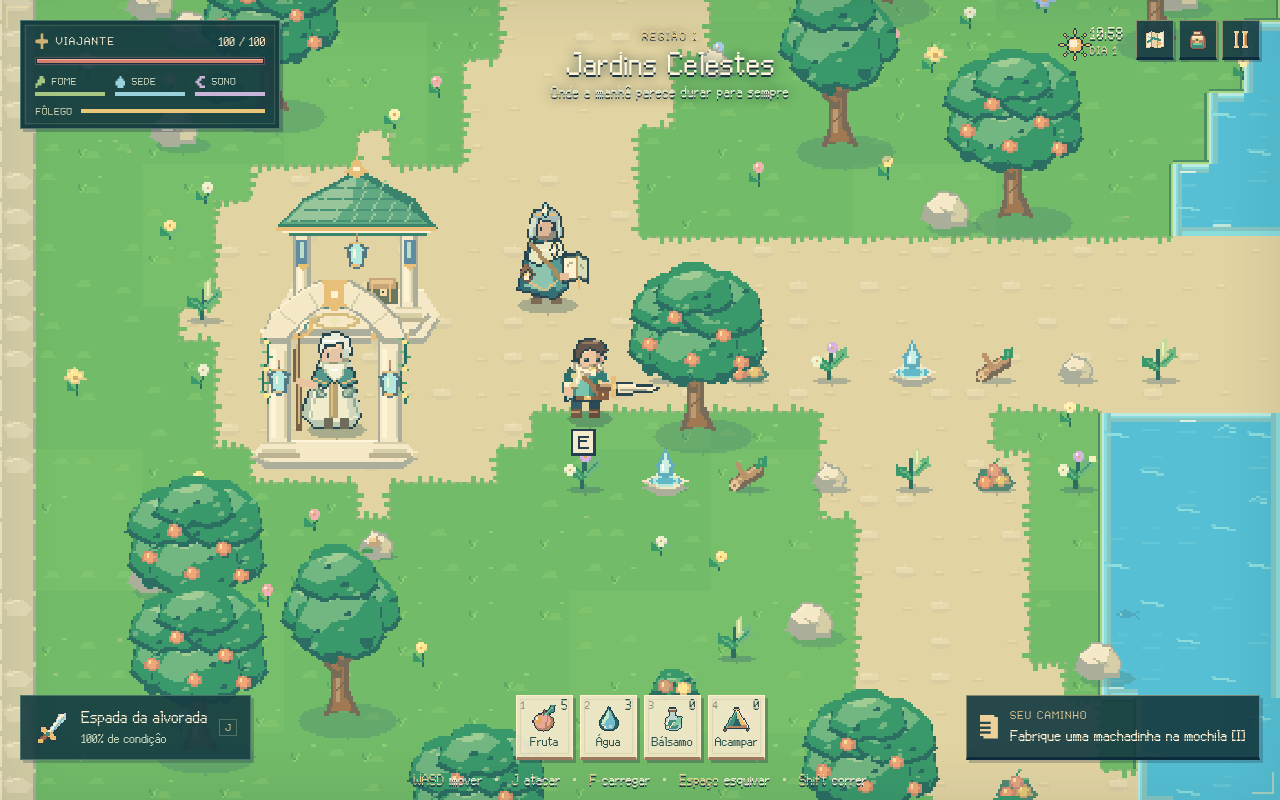
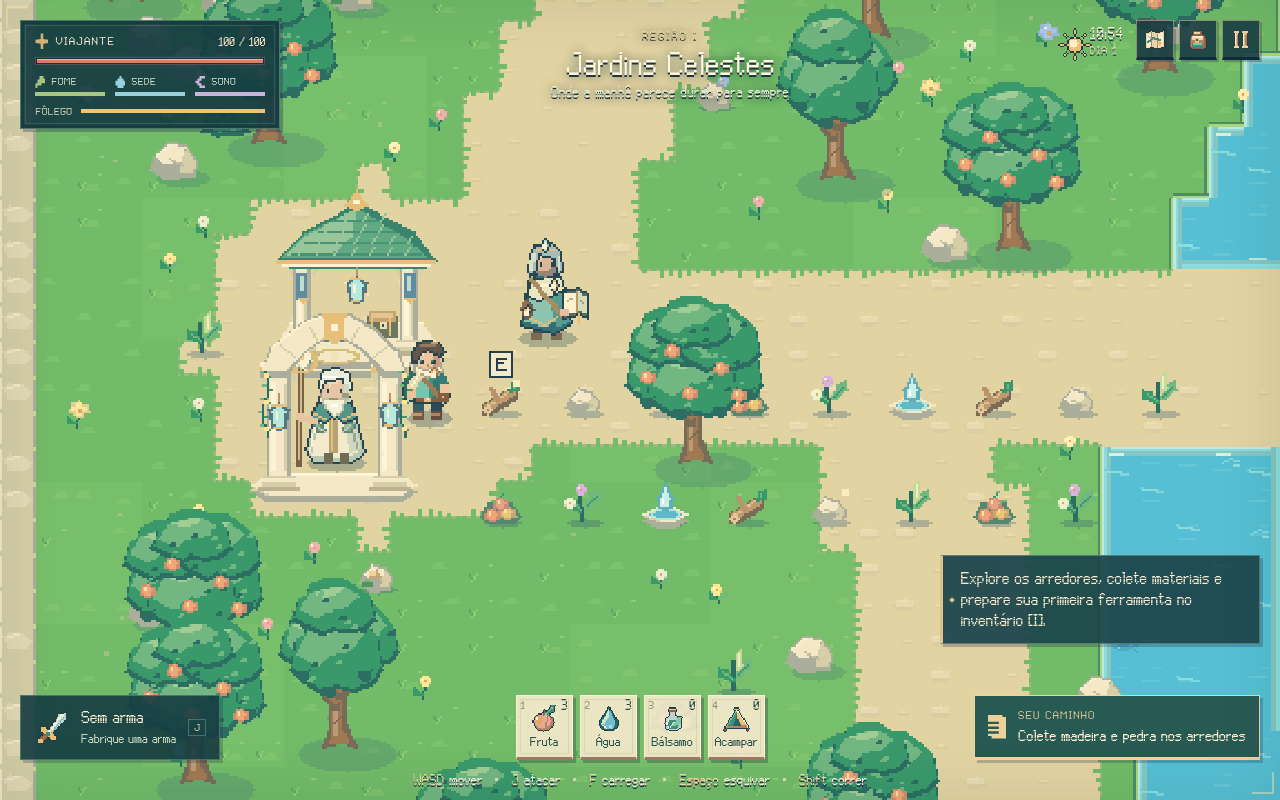
Registra a validação visual e os testes dos aplicativos 1.1.0

diff --git a/docs/validacao.md b/docs/validacao.md
@@ -1,40 +1,39 @@
-# Validação da versão integrada
+# Validação da atualização visual 1.1.0
 
-O Documento Mestre foi lido integralmente na raiz antes da arquitetura. A revisão preservou biomas, personagens, 20 chefes/vítimas, nove ingredientes, survival e sequência final.
+O Documento Mestre foi lido diretamente da raiz. A revisão preserva os dez biomas, os vinte chefes, os nove ingredientes, os sistemas de sobrevivência e a ordem da sequência final.
 
 ## Sistemas e campanha
 
-`npm test` verifica os sistemas e as campanhas normal e tranquila. Os testes de campanha coletam recursos por interação, fabricam e melhoram equipamentos, administram provisões, enfrentam invasores comuns e vencem os vinte chefes com ataques, movimento e esquivas da simulação. Os testes não alteram vida, dano, fôlego ou inventário para forçar vitórias; apenas aceleram o deslocamento entre pontos de interesse.
+`npm test` verifica sobrevivência, crafting transacional, armas, desgaste e reparos, armazenamento regional, acampamentos, salvamento e campanhas normal e tranquila. Os percursos usam interações, ataques, movimento e esquivas da simulação; deslocamentos entre pontos de interesse são assistidos. Vida, dano, fôlego e inventário não são alterados para forçar vitórias.
 
-Foram verificados:
+Os testes verificam conectividade dos mapas, retorno a chefes e ingredientes pendentes, acampamento sem checkpoint, ciclo de 780 segundos, sono crítico, poção obrigatória, retomada do ácido após save/fuga/morte, três nós da fenda, sequência final e preservação dos registros de replay.
 
-- Conectividade dos dez mapas, incluindo recursos, caminhos opcionais, cavernas, arenas, ingredientes e nós da fenda.
-- Possibilidade de deixar chefe e ingrediente pendentes e voltar por viagem rápida antes do décimo bioma.
-- Separação dos baús, desgaste até quebra, reparos e preservação do equipamento no save.
-- Pausa, ciclo de 780 segundos e sono crítico após cerca de 3,5 ciclos.
-- Acampamento sem checkpoint ou salvamento manual.
-- Poção obrigatória e retomada do derretimento após save, fuga ou morte.
-- Três nós elétricos, fechamento da fenda e sequência final correta.
-- Compactação dos registros de replay e preservação das ações essenciais mesmo depois de muitas fabricações.
+## Interface e controles
 
-## Navegador
+`tests/browser.mjs` passou com 19 falas iniciais, movimento por teclado, coleta, fabricação pela interface, pausa, mapa, configurações, reload/save, gamepad pela API simulada do navegador e 25 entradas finais. O save final foi produzido pela campanha automatizada. O jogo encerrou na fala exata do Porteiro, sem botão ou notificação restante e sem erros JavaScript.
 
-`tests/browser.mjs` usa Chromium e Playwright. Verifica menu, 19 falas iniciais, movimento real pelo teclado, coleta, fabricação pela interface, pausa do tempo no inventário, mapa, configurações, reload/save, gamepad pela API padrão do navegador e as 25 entradas finais. A importação final usa um save produzido pelos combates reais da campanha automatizada. O teste exige ausência de erros JavaScript e termina sem botão ou notificação, na fala exata do Porteiro.
+`tests/mobile.mjs` passou com menu nativo simulado, movimento e ataque multitoque, interrupção ao soltar, carga e liberação do golpe, pausa/salvamento em segundo plano, rotação com retrato jogável e 24 avanços de botão até o encerramento. Teclado, mouse, gamepad e toque continuam alimentando a mesma simulação.
 
-A revisão visual verificou menu, gameplay, crafting, mapa, chefes e encerramento. As imagens ficam em `tests/artifacts/` e não entram no Git. `EXPORT_CAMPAIGN=1 npm test` recria o fixture usado no teste do navegador.
+## Artes e telas
 
-Esta validação automatizada cobre integração e conclusão; não substitui uma rodada extensa de playtest humano para ajuste fino de dificuldade e ritmo. Não foi usado um controle físico nesta sessão: o teste de gamepad simula a API do navegador.
+A arte foi redesenhada em módulos próprios: personagens, vinte chefes, sete armas, terrenos, árvores, estruturas, dez marcos, recursos, ingredientes, retratos, efeitos, fonte, marca e ícones. Dezesseis folhas PNG foram exportadas das mesmas rotinas usadas no jogo.
 
-## Correções encontradas durante a integração
+A matriz `tests/layout.mjs` cobre 12 formatos, de 320×568 a 2560×1080, com retrato, paisagem, quadrados, tablet e ultrawide. Verifica proporção/preenchimento do canvas, limites de painéis, rolagem interna, botões encobertos, interseções do HUD, controles, habilidades e notificações. Menus pausam a simulação. Abertura, mochila, fabricação, mapa, diário, pausa, configurações, controles, ponto de apoio, baú, viagem e habilidades são exercitados.
 
-O estado do ácido passou a persistir para evitar bloqueio irreversível no chefe final. Replays foram compactados para caber no armazenamento local e agora preservam os estados históricos da fenda, do poder e da dissolução. Recursos isolados foram convertidos em decoração. Telégrafos foram alinhados ao alcance real do dano; porcentagens de durabilidade, eventos de áudio, navegação de teclado e notificações finais foram corrigidos.
+`tests/render.mjs` passou em 288 verificações, com 92 imagens e 16 folhas PNG: dez biomas de dia/noite, marcos, vinte chefes, poses, quadros de movimento, NPCs, retratos, fenda sem corte, transparência dos atlas, cenas opacas, resize e mira. As imagens também foram inspecionadas; os fixtures visuais não representam vitórias de campanha.
 
-## Aplicativos offline e celular
+Nas batalhas em paisagem baixa, a câmera usa eixo lógico de 480 pixels, considera o espaço livre do HUD e enquadra os atores nas arenas próximas às bordas. O botão da poção permanece à direita, liberando o centro.
 
-Foram gerados um executável portátil Windows x64 e um APK Android universal. O aplicativo Electron abriu diretamente em `paradise://game/index.html`, com Canvas e interface carregados, sem servidor e sem exposição de Node.js à janela. O APK passou na verificação de assinatura v2/v3. Os arquivos de conteúdo incorporados foram comparados com a versão atual; Documento Mestre, saves e chaves não são distribuídos.
+## Aplicativos offline
 
-O teste `tests/mobile.mjs` simula um celular de 844 × 390 com toque e ponte nativa. Verifica que todos os botões iniciais cabem na tela, as 19 falas iniciais, movimento e ataque simultâneos com dois pontos de toque, interrupção do movimento ao soltar, carregamento e liberação do golpe, pausa e salvamento ao ir para segundo plano, rotação para retrato e avanço das cenas finais por toque. Não ocorreram erros JavaScript. A interface de PC foi testada novamente após as adaptações.
+O APK 1.1.0/code2 foi compilado com a mesma chave local da versão anterior e passou na verificação v2/v3. O conteúdo incorporado inclui os módulos e recursos finais; documentos, saves pessoais, ferramentas e chaves privadas são excluídos. O APK instala diretamente e não solicita permissão de internet.
 
-Os testes de interface móveis usam Chromium, não um celular físico. O executável Windows foi produzido em Linux e ainda precisa de teste de execução em Windows. Instalação, avisos de assinatura e comandos de geração estão em `docs/distribuicao.md`.
+O aplicativo Electron abriu em Linux por `paradise://game/index.html`, sem servidor, com marca, fonte, 19 falas, movimento e pausa. O modo Linux sem monitor não permite atestar fullscreen nativo.
 
-A tentativa adicional de instalar o APK em emulador Android 15 não concluiu: sem `/dev/kvm`, o sistema permaneceu na compilação inicial de componentes Google com `dex2oat` por vários minutos, bloqueando a instalação. O emulador foi encerrado. Não foi obtida confirmação de abertura do APK em Android nativo nesta sessão; a assinatura, estrutura, conteúdo e controles em navegador móvel foram verificados separadamente.
+O executável portátil foi compilado e **executado no runner Windows do GitHub Actions**. O teste abriu o aplicativo empacotado, carregou marca/fonte, percorreu 19 falas, moveu o jogador, pausou o tempo e alternou tela cheia. Node.js não ficou exposto ao conteúdo. Pipeline aprovado: [execução 36811488393](https://github.com/Girao-Henrique/Teste-1/actions/runs/36811488393).
+
+O APK instalou no Android virtual, mas o fluxo nativo não foi aprovado. O WebView falhou ao verificar seu snapshot interno do V8 antes de executar os módulos do jogo; dois controles sem conteúdo do jogo também não abriram. A execução em aparelho Android permanece pendente. O diagnóstico completo fica em [android-native-qa.md](android-native-qa.md). Instalação e comandos de geração estão em [distribuicao.md](distribuicao.md).
+
+## Limites práticos
+
+As verificações automatizadas cobrem integração e conclusão, mas não substituem playtest humano para dificuldade, ritmo e desempenho. Nenhum aparelho físico ou controle físico foi usado nesta sessão. A emulação Android por software não fornece uma medição confiável de fluidez ou bateria; testes em aparelhos reais continuam necessários para compatibilidade de fabricantes.

diff --git a/docs/android-native-qa.md b/docs/android-native-qa.md
@@ -2,14 +2,17 @@
 
 O teste usa o APK assinado incorporando `www/` e o WebView real do Android. Não usa o servidor de desenvolvimento nem injeta estado na campanha. Os registros, XMLs de acessibilidade e capturas ficam em `tests/artifacts/android-native/`, fora do conteúdo distribuído e do Git.
 
-## Ambiente reproduzível
+## Ambientes usados
 
 - Android 15, API 35, imagem Google APIs x86_64.
-- AVD `ParadiseTest`, emulação por software sem KVM, SwiftShader, 2 núcleos e 1,5 GB de memória atribuída ao dispositivo.
+- AVD `ParadiseTest`, emulação por software sem KVM, SwiftShader, 2 núcleos e 2,5 GB de memória atribuída ao dispositivo. O emulador elevou a solicitação de 1536 MB para seu mínimo de 2560 MB.
 - Resolução 720 × 1560, densidade 320, equivalente a 360 × 780 pixels CSS em retrato e 780 × 360 em paisagem.
 - SDK, AVD, diretórios temporários e preferências dentro de `.cache/` do projeto.
-- Google Play Services desativado somente no AVD de teste; o jogo não depende desse serviço.
+- WebView 124.0.6367.219 no AVD Google APIs.
+- Google Play Services desativado somente no AVD de teste durante o diagnóstico; o jogo não depende desse serviço.
 - `watchdog_timeout_millis=600000` somente no AVD. A lentidão da emulação por software excedia o limite padrão de 60 segundos e reiniciava `system_server` durante o boot. O ajuste permitiu concluir a inicialização.
+
+Uma segunda tentativa usou o AVD `ParadiseATD`, com a imagem oficial AOSP ATD API 35/x86_64. Ele usa a mesma resolução, densidade e memória, e a porta ADB `emulator-5556`. O boot também concluiu (`sys.boot_completed=1`, Android 15), em aproximadamente 6 minutos. O AVD Google foi encerrado para liberar recursos.
 
 O parâmetro do watchdog corresponde a `Settings.Global.WATCHDOG_TIMEOUT_MILLIS` em [Watchdog.java do Android 15](https://android.googlesource.com/platform/frameworks/base/+/refs/heads/android15-release/services/core/java/com/android/server/Watchdog.java). Ele não altera o APK nem as configurações de quem instala o jogo.
 
@@ -23,9 +26,11 @@ node tests/android-native.mjs install
 node tests/android-native.mjs flow
 ```
 
+Para o AVD ATD, acrescente `PARADISE_ANDROID_SERIAL=emulator-5556` antes de cada comando.
+
 O comando `install` aceita um caminho de APK como terceiro argumento. A instalação usa `--no-incremental -r`. O fluxo desativa Wi-Fi e dados móveis no AVD antes de abrir o jogo, confirmando o carregamento dos recursos incorporados.
 
-O comando `flow` percorre a abertura por toque, aciona o direcional e o ataque, abre a pausa pelo botão Voltar, gira a tela, testa a pausa em retrato e verifica a retomada após ir para segundo plano. Os limites e interseções dos botões são checados usando a árvore de acessibilidade nativa.
+O fluxo previsto pelo comando `flow` percorre a abertura por toque, aciona o direcional e o ataque, abre o inventário e o mapa, abre a pausa pelo botão Voltar, gira a tela, testa o inventário e a pausa em retrato e verifica a retomada após ir para segundo plano. Os limites e interseções dos botões são checados usando a árvore de acessibilidade nativa. A sintaxe do script foi verificada; isso não equivale a aprovação de todo o fluxo.
 
 As capturas precisam ser inspecionadas junto com os resultados automatizados para confirmar a renderização de fontes, sprites, HUD e controles. O relatório de execução é `tests/artifacts/android-native/report.json`.
 
@@ -33,4 +38,34 @@ As capturas precisam ser inspecionadas junto com os resultados automatizados par
 
 Este procedimento valida um dispositivo virtual Android e não representa teste em aparelho físico. A emulação sem KVM não fornece uma medição confiável de fluidez ou consumo de bateria. A matriz mais ampla de tamanhos, proporções e telas do jogo continua nos testes de interface no navegador.
 
-A execução do APK da revisão visual será registrada aqui após a integração das artes finais.
+## Resultado da revisão visual 1.1.0
+
+O APK final foi instalado com `--no-incremental -r` no Android virtual e o instalador retornou `Performing Streamed Install / Success`.
+
+SHA-256 do pacote instalado:
+
+```text
[1 lines of base64/hex data omitted]
+```
+
+No AVD Google APIs, a primeira abertura mostrou o splash do Android com o ícone personalizado do jogo. O dispositivo passou a exibir o diálogo `Pixel Launcher isn't responding`. A conexão do UiAutomation também falhou com `TimeoutException`, impedindo obter a árvore de acessibilidade e concluir o fluxo. Os erros encontrados pertencem à infraestrutura do dispositivo virtual; não fornecem aprovação nem diagnóstico completo da experiência do APK.
+
+A instalação está comprovada. O menu do jogo, o fluxo de abertura por toque, a rotação, o inventário, o mapa e a retomada não foram aprovados em Android nativo nesta etapa.
+
+No ATD, o APK final instalou novamente, mas a abertura também terminou sem mostrar o menu. O log completo permitiu identificar a primeira queda no processo isolado do WebView: `CrRendererMain`, PID 2364, recebeu `SIGTRAP` no endereço relativo `0x17971cc` de `libwebviewchromium.so`, versão 124.0.6367.219. A biblioteca tem BuildId `68dabd72c6088238cbfc9a5fbfe211f916771df5`.
+
+A sequência de instruções desse endereço corresponde ao `CHECK(VerifyChecksum(blob))` em `v8::internal::Snapshot::Initialize`. O verificador retornou falso e a biblioteca executou a instrução de interrupção fatal. A sequência foi comparada com [snapshot.cc do V8 12.4](https://chromium.googlesource.com/v8/v8/+/refs/branch-heads/12.4/src/snapshot/snapshot.cc), incluindo o verificador e o texto de medição do checksum. Essa inicialização pertence ao snapshot interno do V8 fornecido pelo WebView e ocorre antes da execução dos módulos do jogo.
+
+O snapshot de 64 bits extraído do APK do provider contém 74.109 bytes. Seu checksum Adler-32, com valor inicial 0 e cobrindo o conteúdo a partir do byte 12, confere no host: valor armazenado e valor calculado são `0x882b7eae`. O snapshot de 32 bits também confere (`0x51dbfb01`). Portanto, os arquivos extraídos do provider são internamente coerentes fora da execução emulada; o relatório não isola qual etapa da execução emulada causou a divergência.
+
+Após a queda do renderer, o aplicativo recebeu uma segunda interrupção fatal porque o WebView não teve `onRenderProcessGone` tratado. O `tombstone_00` corresponde a essa queda secundária do aplicativo, e não à primeira divergência do checksum.
+
+Um controle com o mesmo wrapper e apenas HTML estático também não exibiu a página. Esse controle não contém módulos, fonte, sprites, canvas nem áudio do jogo, isolando a queda desses conteúdos. Os controles são temporários e ficam apenas em `tests/artifacts/native-probe/`; o APK distribuído mantém os arquivos da revisão visual e o hash acima.
+
+Um segundo controle reduziu o código Java a uma `Activity`, `new WebView(this)`, `setContentView` e `loadData` com HTML simples. Ele não usa bridge, clientes do WebView, origem HTTPS local, ajustes de insets, JavaScript nem código do jogo. A captura `stock.png` também ficou preta e `stock.xml` mostrou apenas `com.android.fakesystemapp`. Esse controle afasta o wrapper de produção e os recursos do Paradise? como condições necessárias para reproduzir a falha observada nesse dispositivo virtual. A origem exata da divergência durante a inicialização do V8 ainda não foi isolada.
+
+A matriz de tamanhos e proporções no Chromium, incluindo controles por toque e retrato/paisagem, passou nos testes de interface da revisão. A execução do aplicativo Windows também passou no runner Windows do GitHub. Esses resultados são separados da validação Android nativa.
+
+Os registros relevantes desta tentativa ficam em `installation.txt`, `installation.json`, `runtime-diagnostics.txt`, `open-latest.png`, `emulator-first.log`, `emulator-atd.log`, `atd-logcat-full.txt`, `atd-tombstone_00.txt`, `atd-renderer.dmp`, `atd-fatal-disasm.txt`, `atd-snapshot-checksums.json` e `atd-final.xml`, dentro de `tests/artifacts/android-native/`. As capturas e XMLs dos controles ficam em `tests/artifacts/native-probe/`.
+
+O APK é uma prévia com instalação e assinatura verificadas, matriz de interface no Chromium aprovada e validação de execução em aparelho Android ainda pendente. O resultado desta sessão não permite declarar o fluxo Android nativo aprovado.

diff --git a/docs/qa-visual.md b/docs/qa-visual.md
@@ -25,3 +25,15 @@ A matriz automatizada complementa a inspeção das imagens. Ela não atesta o de
 `node tests/render.mjs` cria fixtures de apresentação para os dez biomas, seus marcos e a iluminação noturna. Exercita os 20 chefes com poses, ataques, indicadores, partículas e projéteis. As cenas completas devem manter todos os pixels opacos; as 16 folhas de arte precisam ter pixels visíveis e arquivos PNG válidos. Quadros de movimento das quatro direções do jogador, dos dois NPCs e dos três retratos precisam apresentar mudanças reais de pixels. Os chefes e os cinco quadros da fenda também são desenhados com margens externas para detectar cortes nas células de seus atlas.
 
 O teste também chama `Renderer.resize()` em retrato, paisagem, quadrado e ultrawide, compara as proporções, confirma a amostragem sem suavização e verifica a conversão da mira em coordenadas do mundo. Chama `exportSheets()` e guarda uma cópia dos atlas somente em `tests/artifacts/render/atlas/`, sem substituir os recursos de produção. Galerias, cenas e diagnóstico ficam em `tests/artifacts/render/` para inspeção manual.
+
+## Resultado da revisão 1.1.0
+
+A matriz final foi executada em 1º de outubro de 2026, das 03:37:30 às 03:43:07 UTC, com fontes, interface e câmera de combate finais. Os 12 perfis passaram, com 220 capturas de telas, as 19 falas iniciais em cada perfil, nenhum erro de JavaScript e nenhuma solicitação a recursos externos. O diagnóstico inclui horários de início e término de cada perfil; ele resulta de uma execução completa, sem combinar ou omitir falhas de rodadas anteriores.
+
+Passaram as verificações de limites, sobreposição, controles encobertos, proporção e preenchimento do canvas. Mochila, fabricação, diário, mapa, pausa, configurações, controles e as quatro abas de apoio permaneceram utilizáveis com rolagem interna quando necessário. Movimento real por teclado e multitoque, pausa da simulação nos painéis e chamadas de tela cheia também passaram.
+
+A validação final de renderização passou em 288 verificações, produzindo 92 imagens e 16 folhas de arte. Confirmou sprites distintos dos 20 chefes, poses animadas, quadros do jogador/NPCs/retratos, cenas opacas, PNGs válidos, conversão da mira e ausência dos cortes identificados nos atlas da Medusa e da fenda.
+
+Na revisão, foram corrigidas as interseções da barra do chefe com o cabeçalho, as notificações sobre os botões especiais e a margem das notificações sobre o diário em ultrawide. As capturas de combate de 640×320 e 844×390 também foram inspecionadas: jogador e chefe permanecem no centro livre da barra, da poção e dos controles. Em combate nas telas horizontais baixas, o renderer usa um eixo lógico curto de 480 pixels; na exploração usa 360. A proporção permanece uniforme nos dois casos.
+
+Esses resultados são de Chromium com pontes nativas simuladas. A validação de execução dos aplicativos e da campanha é registrada separadamente; esta matriz não representa testes em aparelhos físicos.

diff --git a/README.md b/README.md
@@ -11,7 +11,7 @@ Baixe os aplicativos na [release para PC e Android](https://github.com/Girao-Hen
 - [Windows 64 bits — executável portátil](https://github.com/Girao-Henrique/Teste-1/releases/download/v1.1.0-pre.1/Paradise-Windows-x64.exe).
 - [Android 8+ — APK](https://github.com/Girao-Henrique/Teste-1/releases/download/v1.1.0-pre.1/Paradise-Android.apk).
 
-Esta é a atualização visual 1.1.0, distribuída como versão de testes. A campanha, os menus e os layouts adaptativos foram verificados. O Android requer Android System WebView atualizado. Consulte os testes e limites em [validação](docs/validacao.md).
+Esta é a atualização visual 1.1.0, distribuída como versão de testes. A campanha, os menus e os layouts adaptativos foram verificados, e o executável abriu no Windows. O APK teve assinatura e instalação verificadas; seu fluxo nativo ainda precisa de confirmação em aparelho Android, pois o WebView do emulador falhou antes de carregar o jogo. O Android requer Android System WebView atualizado. Consulte os testes e limites em [validação](docs/validacao.md).
 
 O executável Windows está em `builds/windows/Paradise-Windows-x64.exe`; o APK Android está em `builds/android/Paradise-Android.apk`. Ambos incorporam o jogo e funcionam offline, sem endereço localhost. Consulte [instalação e geração de versões](docs/distribuicao.md). No celular, retrato e paisagem são jogáveis com controles de toque. A tela cheia acompanha o formato da tela.
 
@@ -20,6 +20,8 @@ O executável Windows está em `builds/windows/Paradise-Windows-x64.exe`; o APK 
 ![Menu original de Paradise?](docs/imagens/menu.png)
 
 ![Jardins Celestes e interface](docs/imagens/jardins.png)
+
+Mais imagens: [fabricação](docs/imagens/fabricacao.png) e [celular em retrato](docs/imagens/celular.png).
 
 ## Executar no ambiente de desenvolvimento
 

diff --git a/docs/distribuicao.md b/docs/distribuicao.md
@@ -41,9 +41,9 @@ Preserve `android/signing/paradise.p12` e `android/signing/local.json` em um bac
 
 `npm run check` e `npm test` verificam sintaxe, sistemas e campanhas completas nas duas dificuldades. Com o servidor de desenvolvimento ativo e Playwright instalado, `node tests/browser.mjs` verifica teclado, gamepad, menus, salvamento e encerramento; `npm run test:mobile` verifica menus de celular, multitoque, pausa, salvamento, rotação e encerramento por toque. Gere antes o save de teste com `EXPORT_CAMPAIGN=1 npm test`.
 
-O aplicativo Electron foi aberto no ambiente Linux com os recursos incorporados, sem servidor HTTP. A geração do executável Windows foi validada, mas sua execução precisa ser confirmada em um PC Windows. A assinatura do APK foi verificada com `apksigner`; testes em dispositivo físico permanecem necessários para avaliar desempenho, áudio e compatibilidade de fabricantes.
+O aplicativo Electron abriu em Linux com os recursos incorporados, sem servidor HTTP. O executável portátil também foi compilado e aberto no runner Windows do GitHub Actions: marca, fonte, introdução, movimento, pausa e tela cheia passaram. A assinatura do APK foi verificada com `apksigner`; o resultado da tentativa nativa está em [android-native-qa.md](android-native-qa.md).
 
-A instalação no emulador desta nuvem não concluiu devido à inicialização sem aceleração de hardware. A abertura do APK em Android nativo ainda precisa ser confirmada; os testes de toque foram executados em Chromium móvel.
+Nenhum aparelho físico foi testado nesta sessão. O Android virtual sem KVM pode sofrer lentidão e instabilidade do sistema; desempenho, áudio e compatibilidade de fabricantes precisam de avaliação em aparelhos reais.
 
 ## Publicação pelo GitHub Actions
 

diff --git a/docs/release-v1.1.0-pre.1.md b/docs/release-v1.1.0-pre.1.md
@@ -20,6 +20,10 @@ Os aplicativos funcionam offline. Exportar e importar salvamentos permite transf
 
 Testes de sistemas e campanhas nas duas dificuldades, teclado, gamepad simulado, menus, fabricação, salvamento, multitoque, rotação e encerramento passaram. A matriz visual cobre do celular de 320×568 ao ultrawide de 2560×1080, com verificações de cortes, proporção e sobreposições.
 
-Os detalhes de execução nativa, resultados e limites são registrados em `docs/validacao.md`, `docs/qa-visual.md` e `docs/android-native-qa.md`. Esta é uma versão para testes; desempenho e compatibilidade em aparelhos físicos ainda precisam de playtest.
+O executável empacotado também abriu no Windows do GitHub Actions: introdução, fonte, marca, movimento, pausa e tela cheia passaram.
+
+O APK teve assinatura e instalação verificadas. A execução Android nativa permanece pendente: o WebView do emulador falhou na inicialização interna do V8, antes de carregar os módulos do jogo. Dois aplicativos de controle sem conteúdo do jogo também não abriram. A interface por toque passou no Chromium, mas isso não comprova a execução em aparelho Android.
+
+Os detalhes e limites são registrados em [validação](https://github.com/Girao-Henrique/Teste-1/blob/main/docs/validacao.md), [testes visuais](https://github.com/Girao-Henrique/Teste-1/blob/main/docs/qa-visual.md) e [teste Android nativo](https://github.com/Girao-Henrique/Teste-1/blob/main/docs/android-native-qa.md). Esta é uma versão para testes; desempenho e compatibilidade em aparelhos físicos ainda precisam de playtest.
 
 O executável Windows não possui certificado comercial. O APK é assinado pelo projeto para instalação direta e não está na Play Store.
